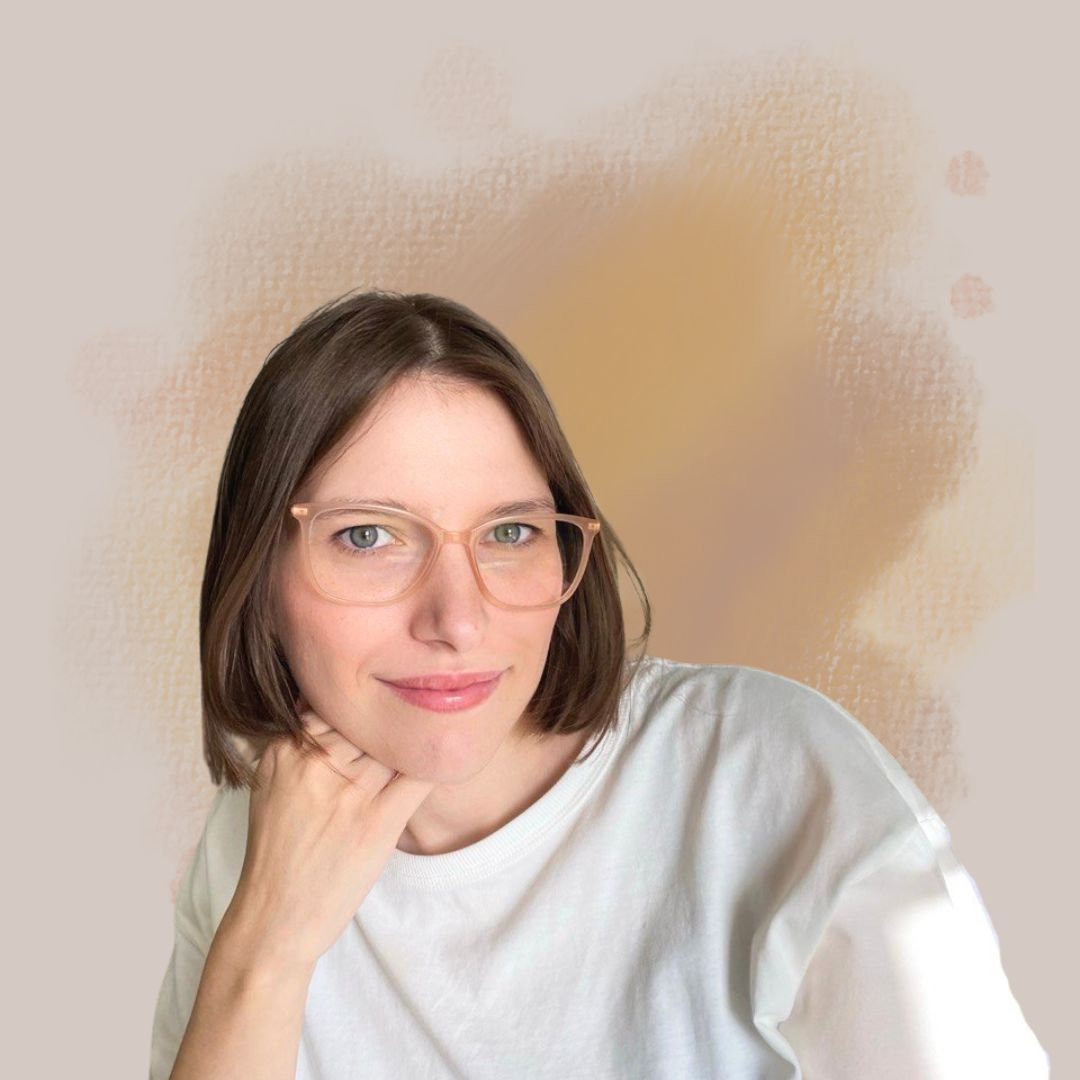
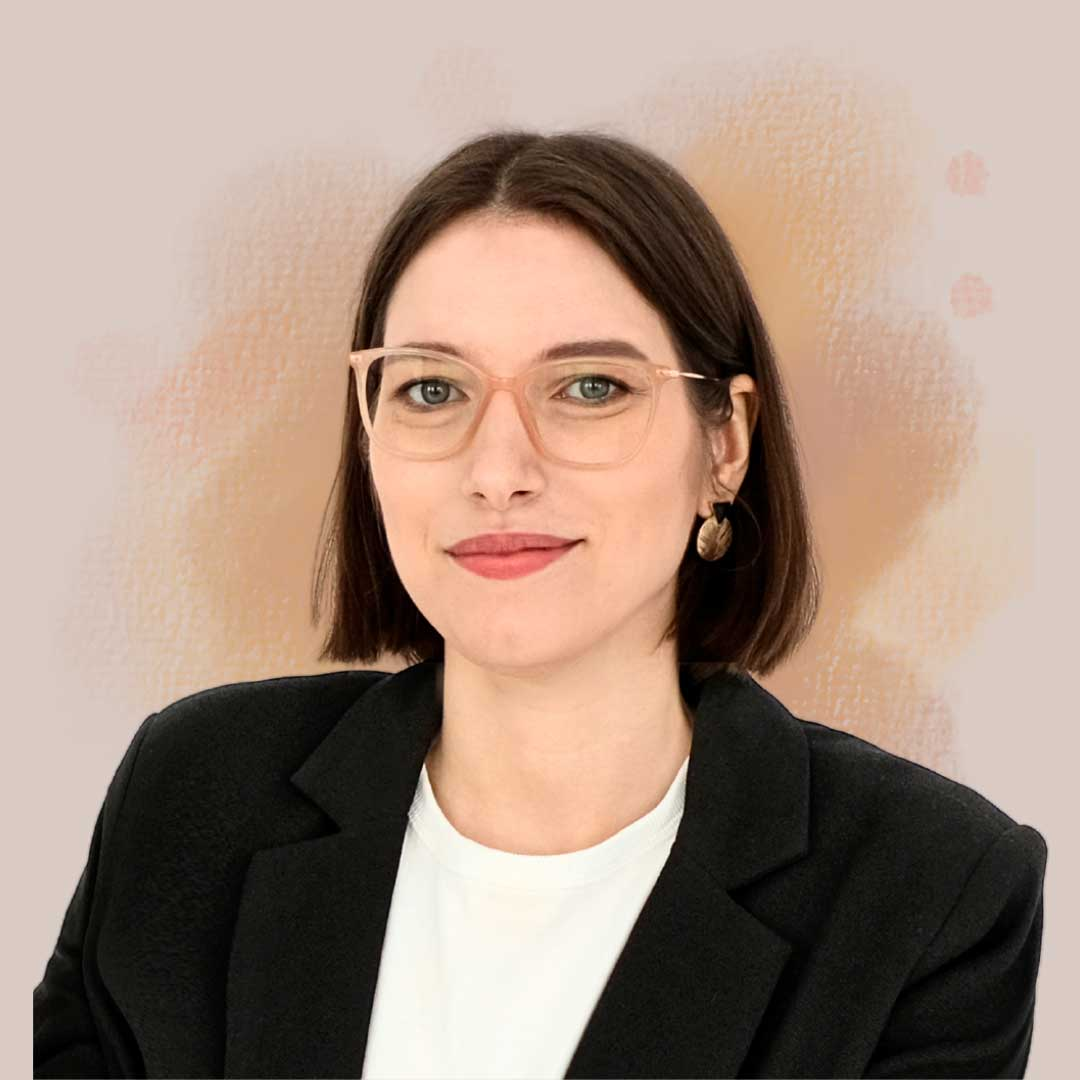
46 тарифы корректировка + смена фото ангелины

diff --git a/price.html b/price.html
@@ -291,7 +291,7 @@
                                 <li class="design-pricing-feature-unavailable">Авторский контроль</li>
                                 <li class="design-pricing-feature-unavailable">Комплектация проекта</li>
                             </ul>
-                            <a href="./tarifstart.html" class="design-pricing-details-btn">Подробнее о тарифе Старт</a>
+                            <a href="./tarifstart.html" class="design-pricing-details-btn">Подробнее</a>
                         </div>
 
                         <div class="design-pricing-card">
@@ -305,13 +305,13 @@
                                 <li>Планировочное решение с подбором мебели</li>
                                 <li>Расширенный набор чертежей</li>
                                 <li>3D эскизы ключевых зон</li>
-                                <li>Ведомости материалов, предметов мебели и декора</li>
+                                <li>Ведомости материалов, мебели и декора</li>
                                 <li class="design-pricing-feature-unavailable">3D визуализация</li>
 <!--                                <li class="design-pricing-feature-unavailable">Бюджетирование</li>-->
                                 <li class="design-pricing-feature-unavailable">Авторский контроль</li>
                                 <li class="design-pricing-feature-unavailable">Комплектация проекта</li>
                             </ul>
-                            <a href="./tarifstart+.html" class="design-pricing-details-btn">Подробнее о тарифе Старт+</a>
+                            <a href="./tarifstart+.html" class="design-pricing-details-btn">Подробнее</a>
                         </div>
 
                         <div class="design-pricing-card">
@@ -326,13 +326,13 @@
                                 <li>Планировочное решение с подбором мебели</li>
                                 <li>Полный комплект чертежей</li>
                                 <li>3D визуализация ключевых зон</li>
-                                <li>Ведомости и спецификации материалов, предметов мебели и декора</li>
+                                <li>Ведомости и спецификации материалов, мебели и декора</li>
 <!--                                <li>Бюджетирование проекта</li>-->
                                 <li>Совместные выезды на подбор и утверждение чистовых материалов или выкрасов (не более двух)</li>
                                 <li class="design-pricing-feature-unavailable">Авторский контроль</li>
                                 <li class="design-pricing-feature-unavailable">Комплектация проекта</li>
                             </ul>
-                            <a href="./tarifstandart.html" class="design-pricing-details-btn">Подробнее о тарифе Стандарт</a>
+                            <a href="./tarifstandart.html" class="design-pricing-details-btn">Подробнее</a>
                         </div>
 
                         <div class="design-pricing-card">
@@ -347,7 +347,7 @@
                                 <li>Планировочное решение с подбором мебели</li>
                                 <li>Полный комплект чертежей</li>
                                 <li>3D визуализация</li>
-                                <li>Ведомости и спецификации материалов, предметов мебели и декора</li>
+                                <li>Ведомости и спецификации материалов, мебели и декора</li>
 <!--                                <li>Бюджетирование с оптимизацией</li>-->
 
                                 <li>Совместные выезды на подбор и утверждение чистовых материалов или выкрасов</li>
@@ -355,13 +355,13 @@
                                 <li class="design-pricing-feature-unavailable">Комплектация проекта</li>
 <!--                                <li>Индивидуальное сопровождение</li>-->
                             </ul>
-                            <a href="./tarifbusiness.html" class="design-pricing-details-btn">Подробнее о тарифе Бизнес</a>
+                            <a href="./tarifbusiness.html" class="design-pricing-details-btn">Подробнее</a>
                         </div>
                         <div class="design-pricing-card">
                             <div class="design-pricing-card-header">
                                 <div class="design-pricing-card-title">Комплектация</div>
 <!--                                <div class="design-pricing-card-subtitle">Премиум сопровождение</div>-->
-<!--                                <div class="design-pricing-card-subtitle">Площадь от 80 м²</div>-->
+                                <div class="design-pricing-card-subtitle">&nbsp;</div>
                             </div>
                             <div class="design-pricing-price">1 500 ₽/м²</div>
                             <ul class="design-pricing-features">
@@ -382,7 +382,7 @@
                                 <li>Ведения графика закупки</li>
                                 <li>Контроль поступления на объект материалов и других предметов дизайна интерьера в срок</li>
                             </ul>
-                            <a href="./tarifbusiness.html" class="design-pricing-details-btn">Подробнее о комплектации</a>
+                            <a href="./tarifbusiness.html" class="design-pricing-details-btn">Подробнее</a>
                         </div>
                     </div>
                 </div>

diff --git a/assets/stylesheets/styles.css b/assets/stylesheets/styles.css
@@ -3935,15 +3935,15 @@ select.city {
   background-color: var(--color-3rd);
   color: white;
   text-align: center;
-  padding: 15px;
+  padding: 5px;
   border-radius: 8px;
-  margin-bottom: 15px;
+  margin-bottom: 5px;
 }
 
 .design-pricing-card-title {
   font-size: 1.3em;
   font-weight: bold;
-  margin-bottom: 10px;
+  /*margin-bottom: 5px;*/
 }
 
 .design-pricing-card-subtitle {
@@ -4002,7 +4002,7 @@ select.city {
 .design-pricing-details-btn {
   display: block;
   width: 100%;
-  padding: 10px;
+  padding: 5px;
   margin-top: 15px;
   background-color: var(--color-3rd);
   color: white;
